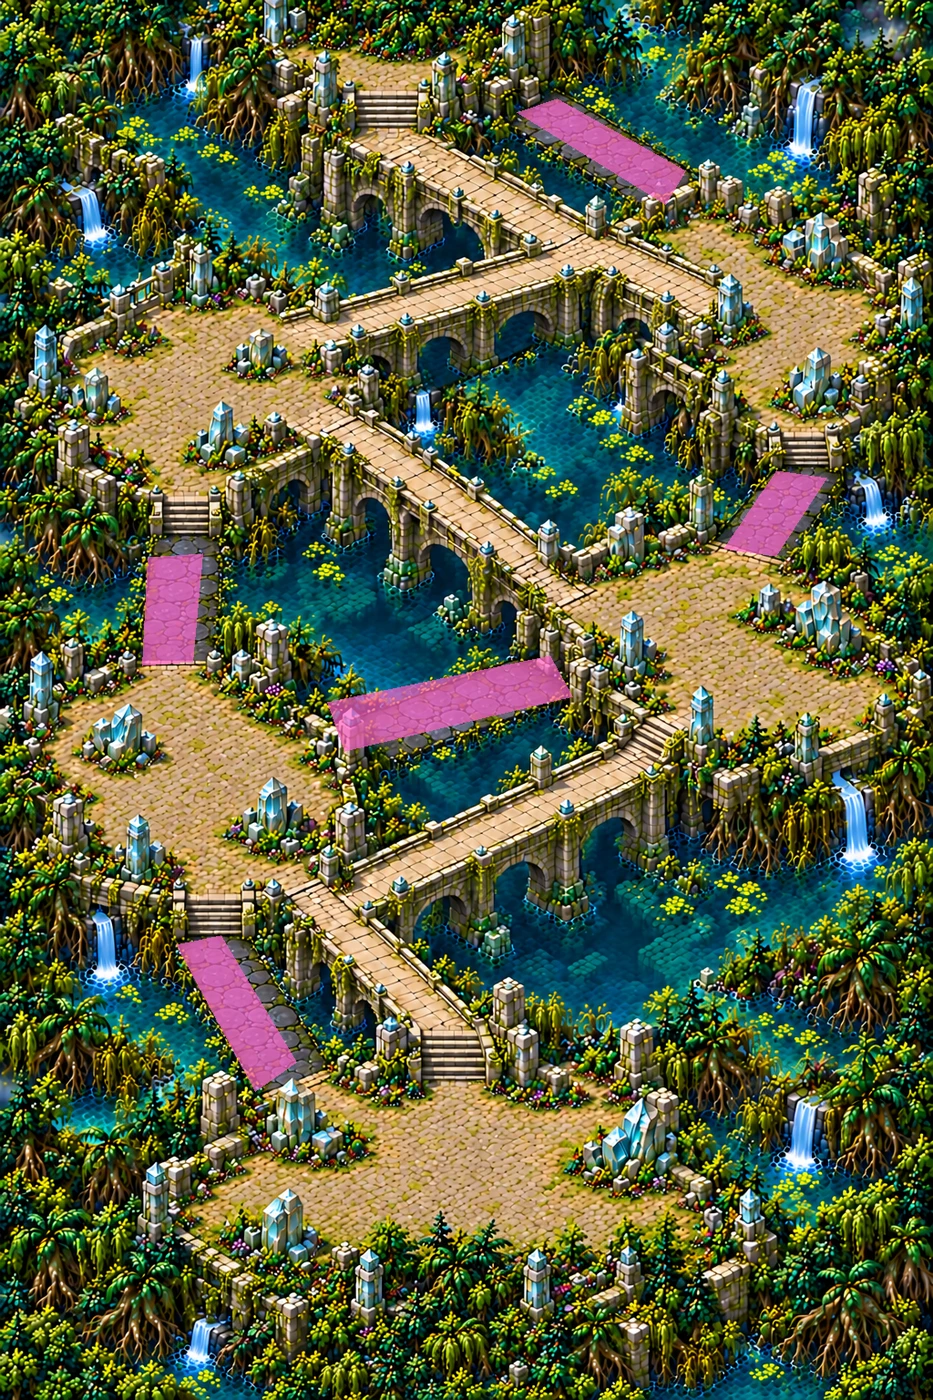
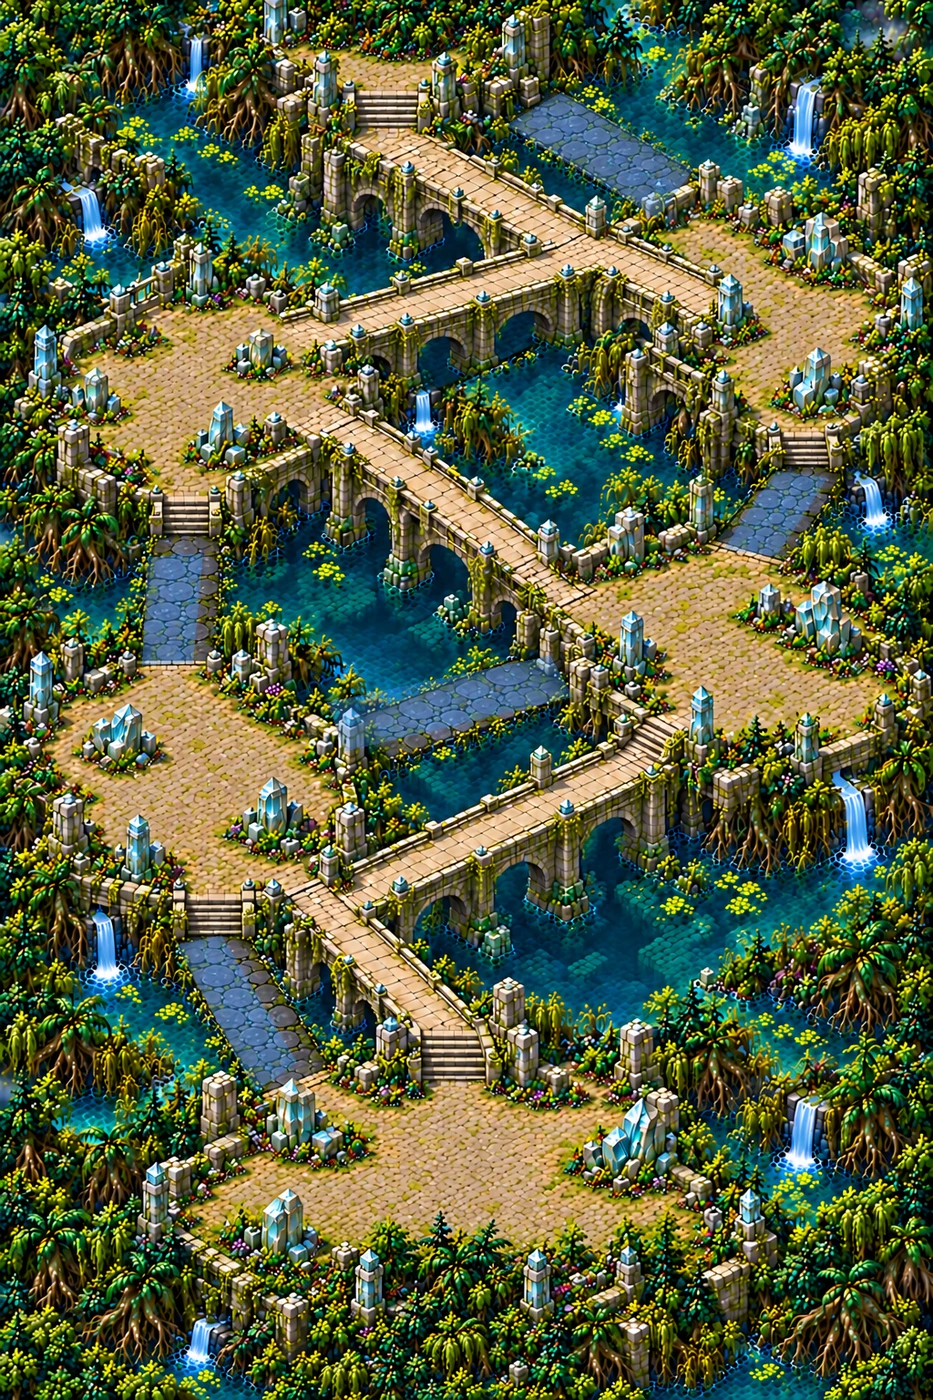
Finaliser le masque de marée et clarifier le contrôle avant correction

diff --git a/docs/maps/TEMPLE_DES_MAREES.md b/docs/maps/TEMPLE_DES_MAREES.md
@@ -31,7 +31,7 @@ Le tracé jaune du plan est schématique : il indique l’ordre des terrasses, p
 | T02 | 35.059, 46.81, 61.328, 53.646 | 826.7 | 173.5 |
 | T03 | 15.234, 39.518, 21.68, 47.526 | 389.6 | 186.4 |
 | T04 | 77.539, 33.594, 88.574, 39.714 | 336.9 | 166.9 |
-| T05 | 55.371, 7.031, 73.438, 14.583 | 576.9 | 128.0 |
+| T05 | 54.199, 6.576, 74.219, 15.56 | 590.3 | 210.0 |
 
 Mesures de l’emprise technique du masque, pas d’une navigation simulée : [détails](../previews/tide-temple/mesures_chaussees.json). Le masque couvre toute la largeur, joints compris, avec de petites marges extérieures dans l’eau déjà infranchissable ; aucune bande latérale volontairement laissée hors masque.
 
@@ -71,7 +71,7 @@ Douze régions (3 × 4), redessinées avec une référence des Ruines à chaque 
 | secteurs conformes (part) | 1.0 |
 | fidélité au plan validé (corrélation) | 0.984 |
 
-Verdict **global CONFORME**, seuils inchangés. La réserve de netteté locale ci-dessous empêche de qualifier la livraison de définitive. [Rapport](../previews/tide-temple/qualite.json) · [Échelle](../previews/tide-temple/echelle.webp) · [Carte entière](../previews/tide-temple/carte_entiere.webp). Les extraits de comparaison restent à 1 pixel = 1 unité, réorganisés sans redimensionnement.
+Verdict **global CONFORME**, seuils inchangés. Le diagnostic de netteté locale et son interprétation avant/après sont détaillés ci-dessous ; la validation artistique et la navigation restent manuelles. [Rapport](../previews/tide-temple/qualite.json) · [Échelle](../previews/tide-temple/echelle.webp) · [Carte entière](../previews/tide-temple/carte_entiere.webp). Les extraits de comparaison restent à 1 pixel = 1 unité, réorganisés sans redimensionnement.
 
 Import et chargement des textures et du masque contrôlés dans un projet Godot 4.3 isolé. Le [repère Chasseur/Mousseroc](../previews/tide-temple/secteur_echelle.webp) est un montage technique à l’échelle, pas une capture en partie.
 
@@ -82,27 +82,31 @@ Import et chargement des textures et du masque contrôlés dans un projet Godot 
 - [x] Identité du chapitre 3, bordures fermées, centres de combat ouverts.
 - [x] Masque de marée final, mesures et plan annoté.
 - [x] Douze régions, assemblage, qualité globale conforme et planche d’échelle.
-- [ ] Netteté locale conforme : réserve ouverte, statut wip.
+- [x] Correction des contours, contrôle sur la référence figée avant correction ; diagnostic relatif après correction conservé séparément.
 - [x] Contrôle ciblé de chargement Godot.
 - [ ] Validation manuelle des tailles, de la circulation et des détours par le propriétaire.
 - [ ] Collisions peintes, marée, quatre failles, gardien et niveau jouable intégrés par Claude.
 
 Aucun `src/`, `data/` ou masque existant modifié. Entrée du manifeste runtime différée, sans inventer de `field`. Sources retenues, prompts exacts et SHA256 dans `assets/concepts/incoming/map.tide_temple/`.
 
-## Restauration des contours et réserve locale
+## Restauration des contours et contrôle avant/après
 
-Une première correction sélective brute a été rejetée : finesse **330,234 → 308,218**, non conforme. Le traitement retenu conserve la matière peinte et transfère uniquement les contours reconstruits par le modèle officiel sur toute la carte : filtre de détail sigma 1,25, poids 0,75, mêmes blocs de 512 pixels et recouvrements de 32. Aucun bruit ajouté, aucune modification de seuil, aucun changement du plan. Recette, code exact et empreintes du modèle sont dans `source/RESTAURATION_CONTOURS.json` et `.py`.
+La correction sélective brute a été rejetée : finesse **330,234 → 308,218**, non conforme. La recette retenue conserve la matière et transfère uniquement les contours reconstruits par le modèle officiel sur toute la carte : filtre de détail sigma 1,25, poids 0,75, blocs de 512 pixels, recouvrements de 32. Aucun bruit ajouté, aucun changement du plan. Code exact, paramètres et empreintes du modèle dans `source/RESTAURATION_CONTOURS.json` et `.py`.
 
-Le contrôle global passe après restauration : **348,773 détails fins**, **100,808 moyens**, **100 % de secteurs conformes**, fidélité **0,984**. Les tuiles WebP sont sans perte : leurs pixels décodés ont été vérifiés identiques à ceux du candidat contrôlé. Import et chargement Godot revérifiés une seule fois après remplacement.
+Après restauration : contrôle global **CONFORME**, détails fins **348,773**, moyens **100,808**, secteurs conformes **100 %**, fidélité **0,984**. Les pixels des WebP sont identiques au candidat contrôlé. [Avant/après au même zoom](../previews/tide-temple/avant_apres_zoom.webp) · [Chiffres](../previews/tide-temple/restauration_contours.json).
 
-[Avant/après au même zoom](../previews/tide-temple/avant_apres_zoom.webp) · [Chiffres et provenance](../previews/tide-temple/restauration_contours.json).
+Le diagnostic relatif recalculé sur la carte corrigée signale encore **219/620 cases (35,3 %)**, contre 333 avant ; ce rapport **ne passe pas** son seuil de 5 %. Il reste joint, sans seuil modifié. Toutefois, `QUALITE_DES_CARTES.md` précise que la référence se mesure **avant correction**, car les zones corrigées deviennent ensuite la nouvelle référence. Le blocage fondé uniquement sur la référence recalculée après traitement était donc une interprétation trop stricte de ce diagnostic.
 
-Le diagnostic relatif de netteté s’améliore de **333 à 219 cases signalées sur 620 (53,7 % → 35,3 %)**. Il reste au-dessus du seuil de 5 % : **réserve maintenue, statut wip, PR en brouillon**. Les Ruines de référence signalent elles-mêmes 50 % dans ce diagnostic, mais cela ne suffit pas à déclarer le Temple conforme localement. Aucune affirmation « aucune case floue ».
+L’audit complémentaire conserve la référence initiale réelle **0,002278732368722558**, le même rapport **0,6** et le même seuil de part signalée **5 %** : **0 case sur 620** sous le seuil initial après correction. Ce n’est pas présenté comme un passage du contrôle relatif recalculé ; les deux résultats restent distincts. [Audit avant/après](../previews/tide-temple/audit_final.json) · [Carte de chaleur relative recalculée](../previews/tide-temple/tide_temple_sharpness.png).
 
-[Carte de chaleur](../previews/tide-temple/tide_temple_sharpness.png) · [Cases signalées](../previews/tide-temple/tide_temple_blurry.json) · [Rapport local](../previews/tide-temple/netteté_locale.json). Le comparatif spectral antérieur reste un historique de la version avant restauration.
+## T05 : correction du masque technique
 
-### Correction d’une mesure de chaussée
+La mesure initiale avait interverti les côtés longs et courts ; l’audit a ensuite montré que le masque ne couvrait que l’intérieur du tablier déjà peint. Le masque de marée créé par Codex couvre maintenant la largeur du tablier existant : longueur moyenne **590,3 unités**, largeur moyenne **210,0 unités**, dans l’objectif de 150–300. Les quatre autres chaussées restent inchangées, cinq composantes binaires conservées. Aucune modification de l’image, aucun élargissement de terrain ni changement de collision.
 
-La mesure initiale de T05 avait interverti les côtés longs et courts du polygone. Sa longueur correcte est **576,9 unités**, sa largeur moyenne **128,0 unités**, sous l’objectif de 150–300 : écart à examiner avec le propriétaire. Le dessin et le masque restent inchangés ; aucune adaptation de masque pour masquer cet écart. Les quatre autres largeurs moyennes vont de 166,9 à 186,4 unités.
+[Superposition avant/après T05](../previews/tide-temple/t05_correction.webp). Le masque reste une emprise de submersion, pas une certification de navigation ; son adéquation précise avec les collisions sera vérifiée à l’intégration.
 
-Poids des nouveaux fichiers uniques : **140.2 Mo**, sous la limite 150 Mo. [Mesure](../previews/tide-temple/poids.json).
+## État de livraison
+
+Passe de détail, assemblage, masque et contrôles visuels livrés pour revue. Aucune revendication de niveau jouable : collisions, marée, quatre failles et gardien restent à intégrer par Claude. La validation artistique, les tailles des abris et la circulation en jeu restent au propriétaire. Aucun outil ni seuil de référence modifié.
+
+Poids des nouveaux fichiers uniques : **140.4 Mo**, sous la limite 150 Mo. [Mesure](../previews/tide-temple/poids.json).
